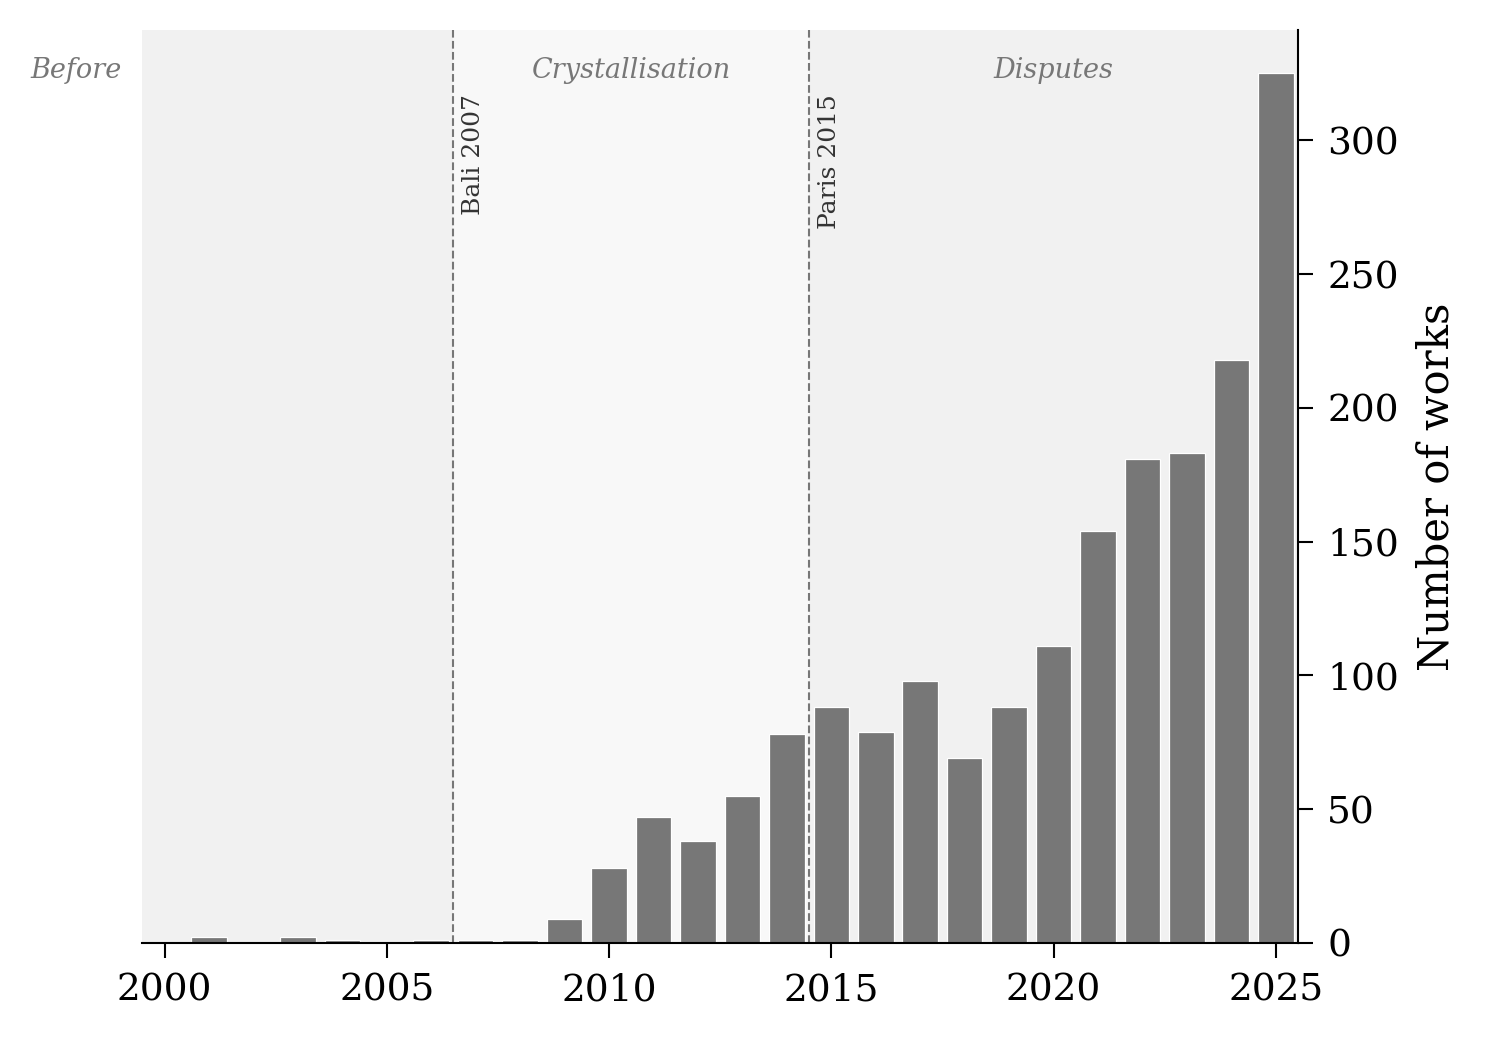
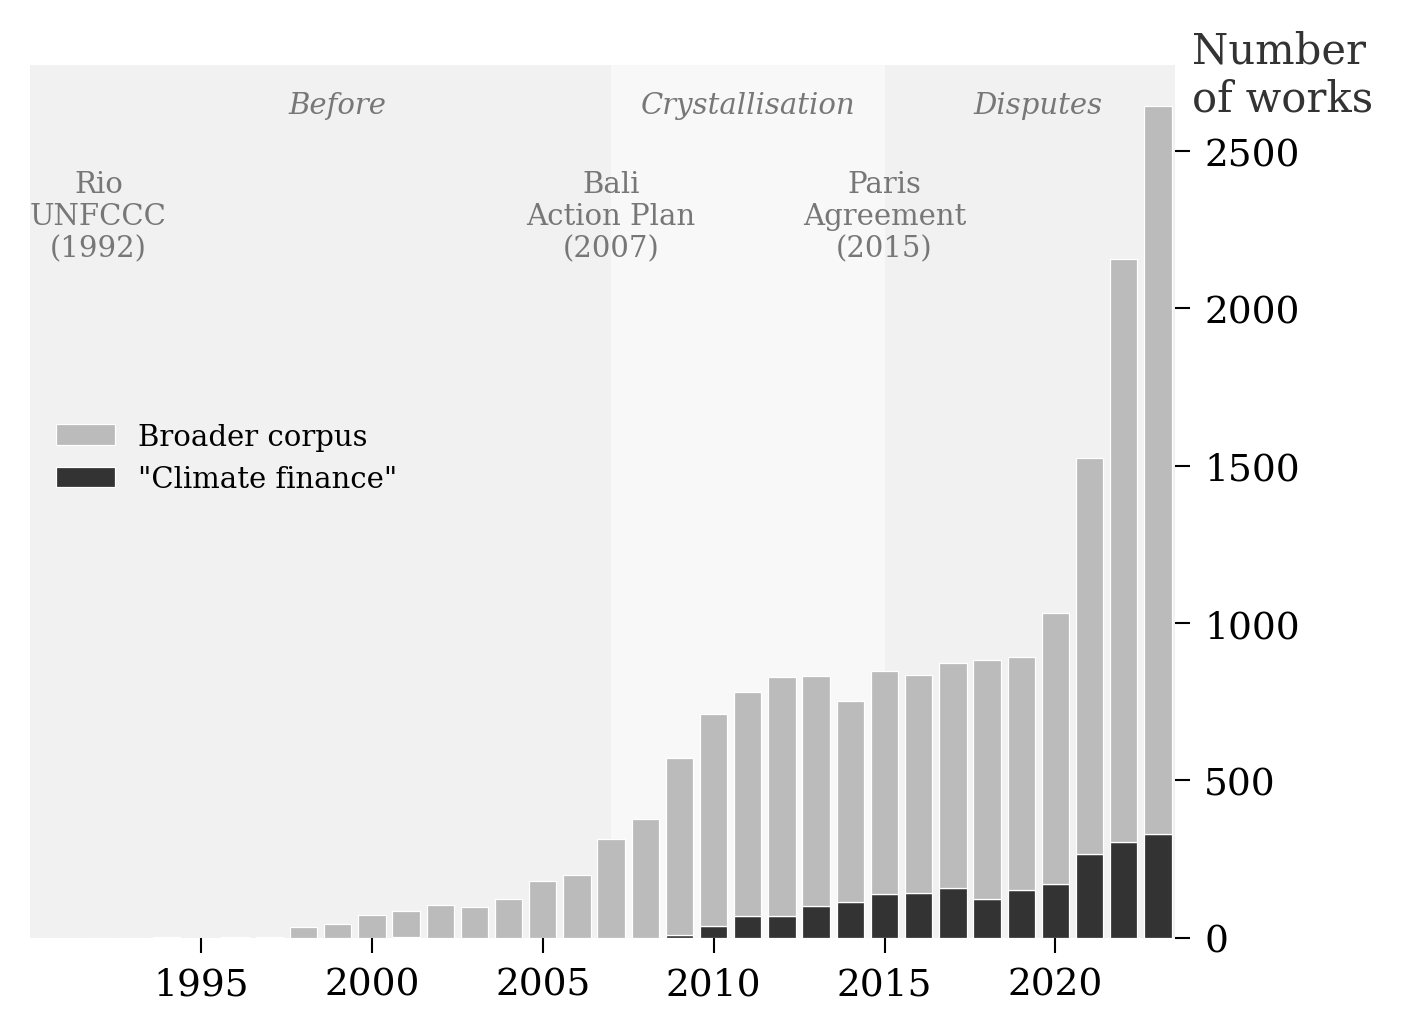
Drop §4, redistribute theory into narrative, rewrite conclusion around Art. 4.3
Structural revision: Section 4 ("How Climate Finance Became an Economic
Object") removed as redundant recapitulation. Its analytical content
redistributed into §1–3 where it supports the narrative directly:
- Commensuration/economization distinction → §2.2
- Performativity-as-device passage → §2.1
- Boundary objects + Dahan (2010) → §3.2
- Constitutive tension + two-communities → §3.4

Conclusion rewritten in three movements: compressed findings, Art. 4.3
trajectory (incremental costs → deliberate ambiguity), and limitations.
The new conclusion does genuine analytical work rather than recapitulating.

Also: add @unfccc1992 to bibliography, add Art. 4.3 research note,
update fig_bars plot style.

Net result: 8,750 → 8,378 words (-372).

diff --git a/scripts/plot_fig1_bars.py b/scripts/plot_fig1_bars.py
@@ -1,32 +1,34 @@
-"""Fig 1 (bars): Climate finance papers per year, 2000-2025.
+"""Fig 1 (bars): Corpus documents per year, 2000-2025.
 
-Simple bar chart for Oeconomia submission showing growth of climate finance
-scholarship with period boundaries.
+Stacked bar chart showing total corpus size and the subset mentioning
+"climate finance" in title or abstract. For Oeconomia submission.
 """
 
 import argparse
 import os
+import re
 import sys
 
 import matplotlib
+import matplotlib.pyplot as plt
 import pandas as pd
 
 sys.path.insert(0, os.path.dirname(__file__))
 from plot_style import (
     apply_style, FIGWIDTH, DPI, MED, LIGHT, DARK, FILL,
-    INCOMPLETE_FROM, add_period_bands, add_period_lines,
+    INCOMPLETE_FROM, PERIODS, add_period_bands, add_period_lines,
 )
 from utils import CATALOGS_DIR, save_figure, BASE_DIR
 
 apply_style()
 
-# Override font sizes for readability at 120mm print width (8-10pt minimum)
-import matplotlib.pyplot as plt
 matplotlib.rcParams.update({
     "axes.labelsize": 10,
     "xtick.labelsize": 9,
     "ytick.labelsize": 9,
 })
+
+CF_PATTERN = re.compile(r"\bclimate[\s-]?finance\b", re.IGNORECASE)
 
 
 def main():
@@ -35,38 +37,75 @@ def main():
                         help="Skip PDF output")
     args = parser.parse_args()
 
-    # --- Load data ---
-    csv_path = os.path.join(CATALOGS_DIR, "openalex_econ_yearly.csv")
-    df = pd.read_csv(csv_path)
-    df = df[(df["year"] >= 2000) & (df["year"] <= 2025)].copy()
-    df = df.sort_values("year")
+    # --- Load corpus ---
+    csv_path = os.path.join(CATALOGS_DIR, "refined_works.csv")
+    df = pd.read_csv(csv_path, usecols=["year", "title", "abstract"],
+                     dtype={"year": "Int64"})
+    df = df[(df["year"] >= 1992) & (df["year"] <= 2023)].copy()
 
-    years = df["year"].values
-    counts = df["n_climate_finance"].values
+    # Flag papers mentioning "climate finance" in title or abstract
+    title = df["title"].fillna("")
+    abstract = df["abstract"].fillna("")
+    df["has_cf"] = title.str.contains(CF_PATTERN) | abstract.str.contains(CF_PATTERN)
+
+    yearly = df.groupby("year")["has_cf"].agg(["sum", "count"])
+    yearly.columns = ["cf", "total"]
+    yearly["other"] = yearly["total"] - yearly["cf"]
+    yearly = yearly.sort_index()
+
+    years = yearly.index.values
+    cf = yearly["cf"].values
+    other = yearly["other"].values
 
     # --- Plot ---
     fig, ax = plt.subplots(figsize=(FIGWIDTH, 3.5))
 
-    # All bars same color (no incomplete-year distinction)
-    ax.bar(years, counts,
-           color=MED, edgecolor="white", linewidth=0.3, zorder=2)
+    ax.bar(years, cf, color=DARK, edgecolor="white", linewidth=0.3,
+           zorder=2, label='"Climate finance"')
+    ax.bar(years, other, bottom=cf, color=LIGHT, edgecolor="white",
+           linewidth=0.3, zorder=2, label="Broader corpus")
 
-    # --- Period bands and lines ---
-    add_period_bands(ax)
-    add_period_lines(ax)
+    # --- Period bands (no vertical lines — save ink) ---
+    bands = [
+        ("Before", 1990, 2007, FILL, 1999),
+        ("Crystallisation", 2007, 2015, "#EEEEEE", None),
+        ("Disputes", 2015, 2024, FILL, None),
+    ]
+    for label, x0, x1, color, label_x in bands:
+        ax.axvspan(x0, x1, color=color, alpha=0.4, zorder=0, linewidth=0)
+        cx = label_x if label_x else (x0 + x1) / 2
+        ax.text(cx, 0.97, label, transform=ax.get_xaxis_transform(),
+                ha="center", va="top", fontsize=7, fontstyle="italic",
+                color=MED)
+    # Event labels at period boundaries (centered on the boundary)
+    for year, label in [
+        (1992, "Rio\nUNFCCC\n(1992)"),
+        (2007, "Bali\nAction Plan\n(2007)"),
+        (2015, "Paris\nAgreement\n(2015)"),
+    ]:
+        ax.text(year, 0.88, label, transform=ax.get_xaxis_transform(),
+                ha="center", va="top", fontsize=7, color=MED,
+                multialignment="center")
+
+    # --- Legend (reverse order to match stacked bars: broader on top) ---
+    handles, labels = ax.get_legend_handles_labels()
+    ax.legend(handles[::-1], labels[::-1],
+              loc="upper left", frameon=False, bbox_to_anchor=(0.0, 0.62))
 
     # --- Axes ---
-    ax.set_xlim(1999.5, 2025.5)
-    ax.set_xticks(range(2000, 2026, 5))
-    ax.tick_params(axis="x", rotation=0)  # horizontal tick labels
+    ax.set_xlim(1990, 2023.5)
+    ax.set_xticks(range(1995, 2024, 5))
+    ax.tick_params(axis="x", rotation=0)
 
-    # Move y-axis to the right side (near the data)
+    # No axis spines — ticks only
     ax.yaxis.set_label_position("right")
     ax.yaxis.tick_right()
-    ax.spines["right"].set_visible(True)
-    ax.spines["left"].set_visible(False)
+    for spine in ax.spines.values():
+        spine.set_visible(False)
 
-    ax.set_ylabel("Number of works")
+    ax.text(2024, 2600, "Number\nof works", ha="left", va="bottom",
+            fontsize=10, color=DARK)
+    ax.set_ylabel("")
     ax.set_xlabel("")
 
     fig.tight_layout()

diff --git a/scripts/plot_style.py b/scripts/plot_style.py
@@ -9,7 +9,7 @@ import matplotlib.pyplot as plt
 import matplotlib.patches as mpatches
 
 # --- Dimensions ---
-FIGWIDTH = 5.0  # inches = 12.7 cm
+FIGWIDTH = 120 / 25.4  # 120 mm = 4.724 inches
 DPI = 300
 
 # --- Grayscale palette ---
@@ -56,7 +56,7 @@ def apply_style():
     mpl.rcParams.update(RCPARAMS)
 
 
-def add_period_bands(ax, y_frac=0.97, fontsize=6.5):
+def add_period_bands(ax, y_frac=0.97, fontsize=7):
     """Draw subtle vertical shading and labels for the three periods.
 
     Parameters
@@ -93,4 +93,4 @@ def add_period_lines(ax, events=None):
         ax.axvline(year - 0.5, color=MED, linewidth=0.5, linestyle="--",
                    zorder=1)
         ax.text(year - 0.3, 0.93, label, transform=ax.get_xaxis_transform(),
-                ha="left", va="top", fontsize=6, color=DARK, rotation=90)
+                ha="left", va="top", fontsize=7, color=DARK, rotation=90)

diff --git a/docs/note-4.3-to-climate-finance.md b/docs/note-4.3-to-climate-finance.md
@@ -1,0 +1,71 @@
+# Note de recherche : De l'Article 4.3 CCNUCC au concept de « finance climat »
+
+*Générée le 2026-03-10 — à intégrer dans le dossier Œconomia / finance climat*
+
+---
+
+## L'observation
+
+Il existe un saut conceptuel considérable — et largement non théorisé — entre le texte de
+l'Article 4.3 de la CCNUCC (1992) et la catégorie contemporaine de « finance climat ».
+
+## Ce que dit réellement l'Article 4.3
+
+L'Article 4.3 établit une obligation pour les Parties à l'Annexe II de fournir des ressources
+financières **nouvelles et additionnelles** pour couvrir :
+
+1. les **coûts convenus complets** (*agreed full costs*) liés aux obligations de reporting
+   (Article 12§1) des pays en développement ;
+2. les **coûts incrémentaux convenus** (*agreed full incremental costs*) pour la mise en œuvre
+   des mesures de l'Article 4§1.
+
+La logique est **transactionnelle et bilatérale** : un remboursement de coûts précis,
+convenus entre la Partie bénéficiaire et l'entité financière internationale (Article 11).
+Le mot « finance » n'apparaît pas. Il s'agit d'une logique de **compensation**, pas
+d'investissement.
+
+## La trajectoire de glissement sémantique
+
+| Étape | Mécanisme | Transformation conceptuelle |
+|---|---|---|
+| **4.3 CCNUCC (1992)** | Remboursement bilatéral de coûts incrémentaux convenus | Logique comptable précise |
+| **Protocole de Kyoto (1997)** | MDP, MOC : mécanismes de marché carbone | Entrée des flux privés, logique de marché |
+| **Accord de Marrakech (2001)** | Fonds climat (FEM, Fonds d'adaptation) | Institutionnalisation de flux publics dédiés |
+| **Copenhague (2009)** | Engagement 100 Mds$/an à horizon 2020 | Émergence de « climate finance » comme catégorie politique autonome — sans définition |
+| **Accord de Paris (2015), Art. 9** | Obligation de « mobiliser » des financements, incluant le privé | Rupture avec la logique des coûts incrémentaux de 4.3 |
+| **NCQG (Bakou 2024)** | Nouvel objectif collectif quantifié | Débat sur la définition toujours non résolu |
+
+## Le problème conceptuel central
+
+L'Article 4.3 repose sur une théorie économique précise :
+coûts incrémentaux, additionnalité, accord bilatéral, prévisibilité des flux, burden sharing.
+
+La « finance climat » contemporaine est une **catégorie politique** qui agrège des flux
+hétérogènes (dons, prêts, garanties, private finance mobilisée ou non) sous une même
+étiquette — pour des raisons de négociation — sans cohérence théorique sous-jacente.
+
+**Hypothèse à développer** : ce glissement n'est pas un accident. Il reflète un double mouvement :
+- les économistes des organisations internationales (OCDE-DAC, MDBs) ont *élargi* le périmètre
+  pour inclure leurs instruments existants ;
+- les pays en développement ont *accepté* l'ambiguïté en échange d'un chiffre plus grand.
+
+Le résultat est une catégorie délibérément floue qui sert des intérêts opposés, au prix d'une
+incohérence théorique documentable.
+
+## Connexion avec l'article Œconomia
+
+Ce point confirme et précise l'argument central du papier :
+
+> La finance climat n'est pas devenue un objet économique *malgré* l'absence de fondement
+> théorique, mais *grâce* à elle — l'ambiguïté étant une ressource dans la négociation.
+
+Le cas 4.3 → Copenhagen → Paris illustre concrètement comment des économistes embedded
+dans les organisations ont **abandonné** une définition rigoureuse disponible (coûts
+incrémentaux convenus) au profit d'une catégorie mobilisatrice.
+
+À mettre en regard avec : Desrosières (commensuration), Porter (trust in numbers),
+et le cadre double verrouillage de l'article Œconomia production jointe.
+
+---
+
+*Source : discussion Claude, 2026-03-10*
